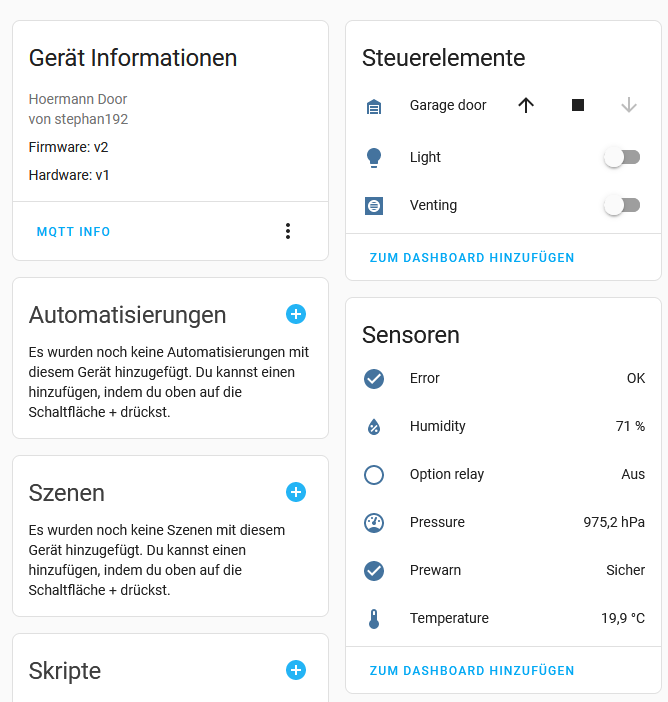
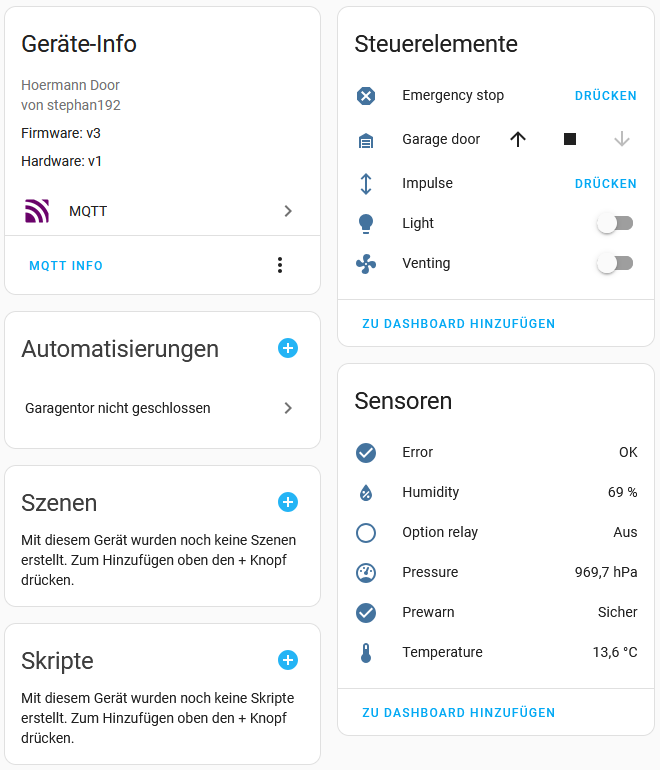
Use impulse command to stop motor instead of emergency stop command

diff --git a/pic16/hoermann.c b/pic16/hoermann.c
@@ -18,11 +18,12 @@
 #define CMD_SLAVE_STATUS_RESPONSE 0x29
 
 #define RESPONSE_DEFAULT          0x1000
-#define RESPONSE_STOP             0x0000
+#define RESPONSE_EMERGENCY_STOP   0x0000
 #define RESPONSE_OPEN             0x1001
 #define RESPONSE_CLOSE            0x1002
 #define RESPONSE_VENTING          0x1010
 #define RESPONSE_TOGGLE_LIGHT     0x1008
+#define RESPONSE_IMPULSE          0x1004
 
 #define CRC8_INITIAL_VALUE        0xF3
 /* CRC table for polynomial 0x07 */
@@ -252,7 +253,11 @@ void hoermann_trigger_action(hoermann_action_t action)
   {
     case hoermann_action_stop:
     {
-      slave_respone_data = RESPONSE_STOP;
+      /* Motor needs only to be stopped if it is running */
+      if (((broadcast_status & 0x60) == 0x40) || ((broadcast_status & 0x60) == 0x60))
+      {
+        slave_respone_data = RESPONSE_IMPULSE;
+      }
       break;
     }
     case hoermann_action_open:
@@ -273,6 +278,16 @@ void hoermann_trigger_action(hoermann_action_t action)
     case hoermann_action_toggle_light:
     {
       slave_respone_data = RESPONSE_TOGGLE_LIGHT;
+      break;
+    }
+    case hoermann_action_emergency_stop:
+    {
+      slave_respone_data = RESPONSE_EMERGENCY_STOP;
+      break;
+    }
+    case hoermann_action_impulse:
+    {
+      slave_respone_data = RESPONSE_IMPULSE;
       break;
     }
   }

diff --git a/pic16/hoermann.h b/pic16/hoermann.h
@@ -4,7 +4,9 @@ typedef enum
   hoermann_action_open = 1,
   hoermann_action_close = 2,
   hoermann_action_venting = 3,
-  hoermann_action_toggle_light = 4
+  hoermann_action_toggle_light = 4,
+  hoermann_action_emergency_stop = 5,
+  hoermann_action_impulse = 6
 } hoermann_action_t;
 
 extern void hoermann_init(void);

diff --git a/esp8266/hoermann.h b/esp8266/hoermann.h
@@ -30,6 +30,8 @@ typedef enum
   hoermann_action_close,
   hoermann_action_venting,
   hoermann_action_toggle_light,
+  hoermann_action_emergency_stop,
+  hoermann_action_impulse,
   hoermann_action_none
 } hoermann_action_t;
 

diff --git a/esp8266/hoermann.cpp b/esp8266/hoermann.cpp
@@ -6,6 +6,7 @@
 Hoermann::Hoermann(void)
 {
   actual_state.data_valid = false;
+  actual_action = hoermann_action_none;
 }
 
 void Hoermann::loop(void)

diff --git a/docs/hoermann.md b/docs/hoermann.md
@@ -63,8 +63,8 @@ Sender : Master
 * d0 bits:
     * `0`: door open
     * `1`: door closed
-    * `2`: external relay supposed to be switched on (relay 03 on UAP1)
-    * `3`: light relay (not 100% sure)
+    * `2`: optional/external relay (relay 03 on UAP1)
+    * `3`: light relay
     * `4`: error active
     * `5`: direction when moving (=1 closing, =0 opening)
     * `6`: door is moving
@@ -119,7 +119,7 @@ Sender: Slave
 * d0 bits:
     * `0`: Trigger open door
     * `1`: Trigger close door
-    * `2`: Trigger reverse direction (not 100% sure)
+    * `2`: Trigger impulse (stop if door is moving, reverse direction if stopped, behaviour like the button on the remote control)
     * `3`: Toggle light relais
     * `4`: Trigger venting position
     * `5`: ???

diff --git a/README.md b/README.md
@@ -70,8 +70,9 @@ The door drive is automatically added to Home Assistant via [MQTT Discovery](htt
 * USB-UART converter
 
 ## PIC16
-* MPLabX v5.25
-* XC8 v2.10
+* MPLabX v5.45
+* Device Family Pack PIC16F1xxxx_DFP 1.5.133
+* XC8 v2.32
 * PICkit3
 
 
